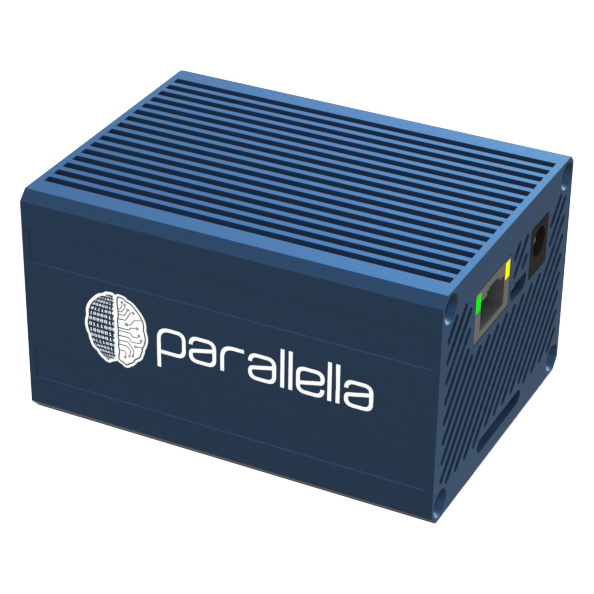
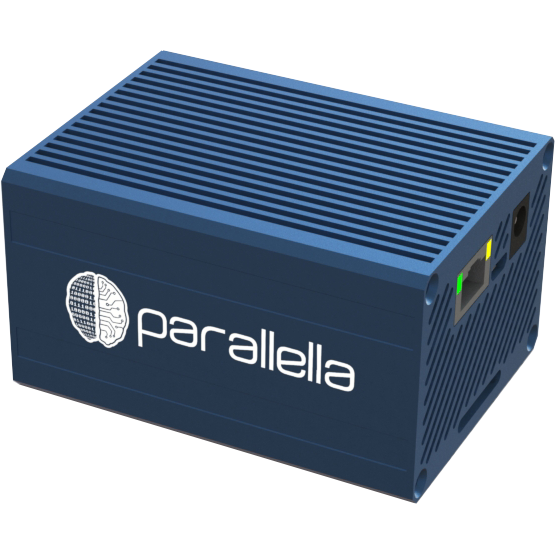
Update
Updated some photos to make more centered, polishing up design page

Changed region(s): [[0.0, 0.0919, 1.0, 0.9189], [0.0919, 0.4901, 0.6432, 0.7045]]

diff --git a/index.html b/index.html
@@ -68,49 +68,45 @@
                     </div>
                     
                     <div>
-                        <div style="float:right">
+                        <div class="contentbox">
                             <div class="logobox">
                                 <img src="images/blink_logo_immedia.png">
                                 <img src="images/blink_logo_kickstarter.png">
                                 <img src="images/blink_logo_amazon.png">
                             </div>
+                            <div class="fig" style="width:100%">
+                                <img src="images/blink_sync_render.png">
+                                <p>Render of Sync Module Alpha Unit Prototype</p>
+                            </div>
                         </div>
 
-                        <p>In 2014 Immedia Semiconductor successfully ran a Kickstarter campaign for their proprietary low-powered smart security cameras which raised over $1 million. I was contracted as a product design consultant to assist with the design and prototyping of their alpha units for Kickstarter fulfillment. I continued to support future revisions to their productions models.</p>
 
-                        <p>Throughout the project I was responsibe for:</p>
+
+                        <p>In 2014 Immedia Semiconductor successfully ran a Kickstarter campaign for their proprietary low-powered smart security cameras which raised over $1 million. I was contracted as a product design consultant to assist with the design and prototyping of their Sync Module alpha units for Kickstarter fulfillment, which served as a WiFi-enabled hub for their Blink Camera Modules. After the primary design work was completed I continued to support future design changes for the production models of their Sync and Blink Modules.</p>
+
+                        <div class="fig" style="width:33%;float:left">
+                            <img src="images/blink_render.png">
+                            <p>Render of Blink Camera Alpha Unit</p>
+                        </div>
+
+                        <p>Throughout the project I was responsible for:</p>
                         <ul>
                             <li>Holding regular design meetings with various teams to review technical design and user needs</li>
-                            <li>Designing and refining Sync module components for form and mechanical assembly</li>
+                            <li>Iteratively designing Sync Module components for form and mechanical assembly</li>
                             <li>3D printing numerous prototypes for an iterative design process</li>
                         </ul>
 
                         <p>In late 2017 the popularity and commercialization of their cameras led to a $90 million acquisition of the company by Amazon.</p>
 
-                        <p id="companyprofile">About the Company:<br>Immedia Semiconductor  is a leading provider of video and image processing chips for connected camera  applications. Immedia's breakthrough low power solutions with 3D  noise processing and noDRAM™ technologies enable consumer cameras with unprecedented image quality, battery life, price points and form factors. Immedia  is also the company behind Blink, the ultra-affordable smart HD home monitoring  and alert system.</p>
-
-                        <div class="row" style="width:100%">
-                            <div class="fig" style="width:33%">
-                                <img src="images/blink_sync_render.png">
-                                <p>Render of Sync Module Alpha Unit Prototype</p>
-                            </div>
-                            <div class="fig" style="width:33%">
-                                <img src="images/blink_render.png">
-                                <p>Render of Blink Camera Alpha Unit</p>
-                            </div>
-                            <div class="fig" style="width:33%">
-                                <img src="images/Blink_Sync_Module.png">
-                                <p>Production Blink and Sync Modules</p>
-                            </div>
-                        </div>
-
+                        <p id="companyprofile">About the Company:<br>Immedia Semiconductor is a leading provider of video and image processing chips for connected camera applications. Immedia's breakthrough low power solutions with 3D noise processing and noDRAM™ technologies enable consumer cameras with unprecedented image quality, battery life, price points and form factors. Immedia is also the company behind Blink, the ultra-affordable smart HD home monitoring and alert system.</p>
+                      
                         <div class="fig">
                             <img src="images/blink_prototype1.png">
                             <img src="images/blink_prototype2.png">
                             <p>3D Printed Porototypes for Sync and Blink Modules</p>
                         </div>
                     </div>
-                    </div> 
+                </div>
             </div>
             
         </div>
@@ -132,7 +128,7 @@
                 </div>
 
                 <div>
-                    <div style="float:right">
+                    <div class="contentbox">
                         <div class="logobox">
                             <img src="images/fren_logo_BU.png">
                             <img src="images/fren_logo_BMC.png">
@@ -142,7 +138,34 @@
                     <div>
                         <p>During a series of observations at Boston Medical Center teams were tasked with identifying a procedure or device that caused inefficiencies or prone to failure during surgeries. Our team decided to focus on improving the efficiency of the frenotomy procedure for neonates that are tongue-tied. The current standard uses a tongue elevator, hemostat, and surgical scissors to incise the frenulum, which requires an experienced practitioner to perform due to the sensitive anatomy of a neonate. Our goal was to create a device that combines the traditional tools for this procedure, is low risk to the infants, and requires minimal training for the operator.</p>
 
+                        In this design process
+                        <ul>
+                            <li>Determining user needs through numerous interviews with constituents and users</li>
+                            <li>Several </li>
+                        </ul>
+
+                        <p>A novel frenotomy tool design was prototyped which incorporates a hemostat and a safety blade that only actuates when the hemostat clamp is completely closed. A full business plan with proposed FDA regulatory pathways, IP strategy, FMEA, and validation studies were written and presented as a part of our Master’s project. The design was also well received by several surgeons familiar with the procedure.
+                        </p>
+
                         <p id="companyprofile">About the Program:<br>The Master of Engineering (MEng) Program in Biomedical Engineering is a professional graduate degree program for students who intend to apply their advanced technical and leadership education and training to the development of new products for the health care, medical device, biotechnology, and biopharmaceutical sectors. The curriculum combines a full complement of technical engineering electives with an experiential, clinically focused biomedical product design and development sequence. Students in the Biomedical MEng degree program will work with leading clinicians to observe and identify unmet clinical challenges, design and develop innovative engineering solutions to those challenges, and explore the regulatory, intellectual property, and reimbursement pathways that will ultimately advance the standard of patient care through the deployment of their innovations.</p>
+
+
+                        <div class="fig">
+                            <img src="images/fren_animation.gif">
+
+                            <p>Animation of the Frenotomy Tool Mechanical Operation</p>
+                        </div>
+
+                        <div class="fig">
+                            <img src="images/fren_drawing.png">
+                            <p>Mechanical Drawing of the Frenotomy Tool</p>
+                        </div>
+
+                        <div class="fig">
+                            <img src="images/fren_prototype.png">
+                            <p>3D-Printed Prototype</p>
+                        </div>
+
                     </div>
                 </div>
             </div>
@@ -165,7 +188,7 @@
                 </div>
 
                 <div>
-                    <div style="float:right">
+                    <div class="contentbox">
                         <div class="logobox">
                             <img src="images/radmap_logo_CSA.png">
                         </div>
@@ -174,6 +197,33 @@
                     <p>CSA Medical specializes in cryoablation of internal tissue with liquid nitrogen (LN2). I was solely tasked with the ambitious project of creating a number of test fixtures that contained a 3-dimensional array of 400 temperature measurement points embedded in a tissue-mimicking material. The fixture was then used to find the amount of tissue treated during procedures by controlling for a variety of parameters. This device was used to shape many of company’s product design decisions. The work performed on this project led to an authorship on a pending patent.</p>
 
                     <p id="companyprofile">About the Company:<br>CSA Medical, Inc. develops and manufactures a proprietary interventional spray cryotherapy technology platform utilizing unique properties of liquid nitrogen spray delivered by a software driven device with specialty catheters that enable delivery of spray cryogen inside the body to flash freeze and destroy unwanted tissue allowing for a rejuvenative pattern of healing.</p>
+
+
+                    <div class="fig">
+                        <img src="images/radmap_assembly.png">
+                        <p>3D-Printed Prototype</p>
+                    </div>
+
+                    <div class="fig">
+                        <img src="images/radmap_software.png">
+                        <p>Custom-Built Software for Data Analysis</p>
+                    </div>
+
+                    <div class="fig">
+                        <img src="images/radmap_build1.jpg">
+                        <p>Final Builds of RadMap Modules</p>
+                    </div>
+
+                    <div class="fig">
+                        <img src="images/radmap_render_assembly.JPG">
+                        <p>Cross-Section with RadMap Module and Filling Tool</p>
+                    </div>
+
+                    <div class="fig">
+                        <img src="images/radmap_box.jpg">
+                        <p>Custom-Built Data Acquisition Box for Measuring 400 Temperature Channels</p>
+                    </div>
+
                 </div>
             </div>
         </div>
@@ -195,7 +245,7 @@
                 </div>
 
                 <div>
-                    <div style="float:right">
+                    <div class="contentbox">
                         <div class="logobox">
                             <img src="images/case_logo_adapteva.png">
                             <img src="images/case_logo_parallella.png">
@@ -206,6 +256,16 @@
 
                     <div class="fig">
                         <img src="images/case_thermal.jpg">
+                        <p>Thermal Image of Parallella CPU Heating</p>
+                    </div>
+
+                    <div class="fig">
+                        <img src="images/case_render2.JPG">
+                        <p>Thermal Image of Parallella CPU Heating</p>
+                    </div>
+
+                    <div class="fig">
+                        <img src="images/case_render3.JPG">
                         <p>Thermal Image of Parallella CPU Heating</p>
                     </div>
 
@@ -230,7 +290,7 @@
                 </div>
             
                 <div>
-                    <div style="float:right">
+                    <div class="contentbox">
                         <div class="logobox">
                             <img src="images/bikelops_logo.png">
                             <img src="images/blink_logo_kickstarter.png">
@@ -246,6 +306,24 @@
                         <li>3D printing prototypes to test for fit and durability</li>
                     </ul>
                     <p>Several design iterations were completed until we had a design that performed well in field tests. Higher quality 3D prints were made and I obtained several quotes from machine shops for the costs of tooling and injection molding runs. A Kickstarter campaign was launched to try to raise enough funds for manufacturing. Although the design was well-received it did not make the funding goal in time, which we determined was due to the product being advertised as a flashlight rather than a phone mount. Despite this, this was a good experience for project management and marketing, and it served to strengthen my product design skills.</p>
+
+                    <div class="fig">
+                        <img src="images/bike_comparison.gif">
+                        <p>Comparison of the Bikelops vs. a Stanard iPhone Flashlight</p>
+                    </div>
+                    <div class="fig">
+                        <img src="images/bike_graph.png">
+                        <p>Light Amplification Measuremnet with Bikelops</p>
+                    </div>
+                    <div class="fig">
+                        <img src="images/bike_mounted.png">
+                        <p>Bikelops Final Prototype</p>
+                    </div>
+                    <div class="fig">
+                        <img src="images/bike_prototypes.png">
+                        <p>Bikelops Design Prototypes</p>
+                    </div>
+
                 </div>
             </div>
         </div>

diff --git a/style.css b/style.css
@@ -192,24 +192,30 @@ input[type=radio]:checked + label{
   position:absolute;
   text-align:justify;
   margin-left:200px;
-  visibility:hidden;
+  display:none;
   opacity:0;
   top:200px;
   -webkit-transition:visibility 0s, opacity 0.3s;
   transition:visibility 0s, opacity 0.3s;
+  padding-bottom:200px;
 }
 
 input[type=radio]:checked ~ .designcontent{
-  visibility:visible;
+  display:block;
   opacity:1;
+}
+
+.contentbox{
+  float:right;
+  text-align:center;
+  margin-left:32px;
 }
 
 .logobox{
   position:relative;
   display:inline-block;
   box-shadow:0 2px 5px 0 rgba(0,0,0,0.16),0 2px 10px 0 rgba(0,0,0,0.12);
-  margin-left:32px;
-  margin-bottom:32px;
+  margin-bottom:16px
 }
 
 .logobox img{
@@ -271,10 +277,10 @@ input[type=radio]:checked ~ .designcontent{
 }
 
 .fig{
-  max-width:200px;
+  max-width:250px;
   position:relative;
   display:block;
-  float:left;
+  margin: 16px 16px;
 }
 
 .fig img{
